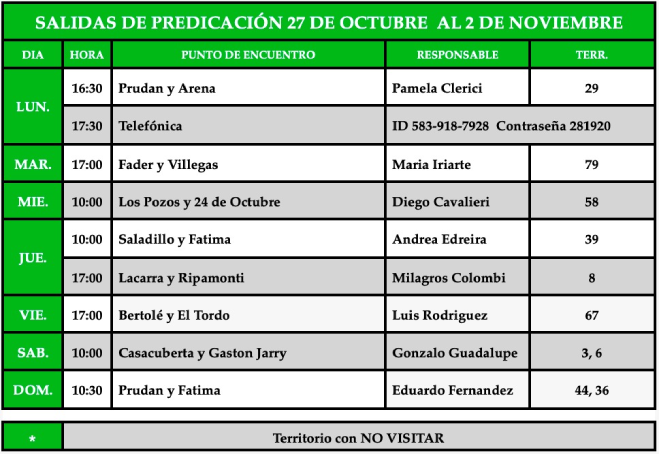
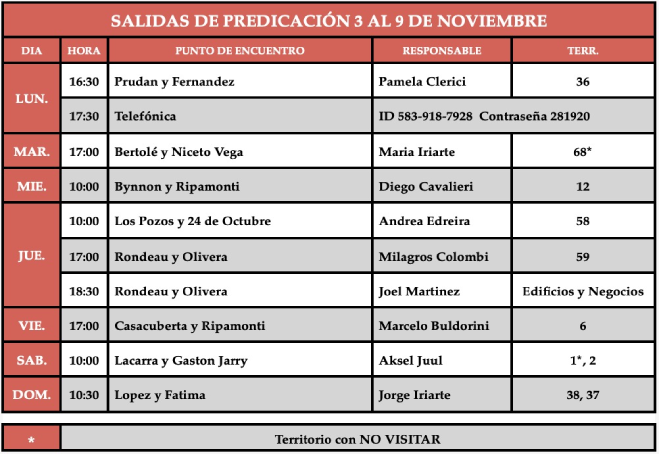
actualizo salida, limpieza y programa

diff --git a/pages/programaSemanal/programaSemanal.html b/pages/programaSemanal/programaSemanal.html
@@ -39,7 +39,7 @@
     <main>
         <section class="reuSemanal">
             <h2> Programa para la reunión entre semana</h2>
-            <img src="./asignacionesOctubre.png" alt="">
+            <img src="./asignacionesNoviembre.png" alt="">
         </section>
     </main>
     <footer>
